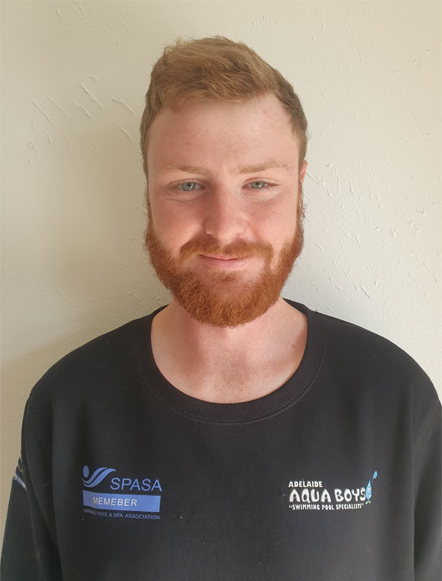
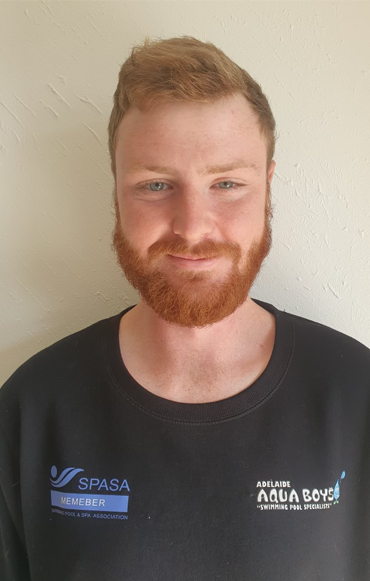
Made crew images fluid.

diff --git a/crew.html b/crew.html
@@ -88,20 +88,20 @@
   <div class="container">
 	<div class="row">
       <div class="col text-center" id="pat" style="display: none">
-          <img src="images/profiles/pat.jpeg"/>
+          <img id="patpic" class="img-fluid" src="images/profiles/pat.jpeg"/>
           <p id="staffPatInfo">I have been in the industry as a senior technician since for 17 years.
                 I specialise in transdermal magnesium applications, automation and leak detection
                 My hobby’s are . Enduro motor bike riding , and anything to do with water and footy!!</p>
       </div>
 
       <div class="col text-center" id="matt" style="display: none">
-        <img src="images/profiles/matt.jpeg"/>
+        <img class="img-fluid" src="images/profiles/matt.jpeg"/>
         <p id="staffMattInfo">Matt Limburg 2IC and senior technician and pool builder  been in the industry for 10 years .. specialises in custom plumbing and leak detection.
                 Matt’s hobby’s are Fishing, Endurance dirt biking and 4 wheel driving.</p>
       </div>
 
       <div class="col text-center" id="cody" style="display: none">
-        <img src="images/profiles/cody.png"/>
+        <img class="img-fluid" src="images/profiles/cody.png"/>
         <p id="staffCodyInfo">Been in the industry for 4 years, senior serviceman, specialises in full servicing and green pool treatments.
                 Hobby’s are Boxing 🥊 and Cars.</p>
       </div>
